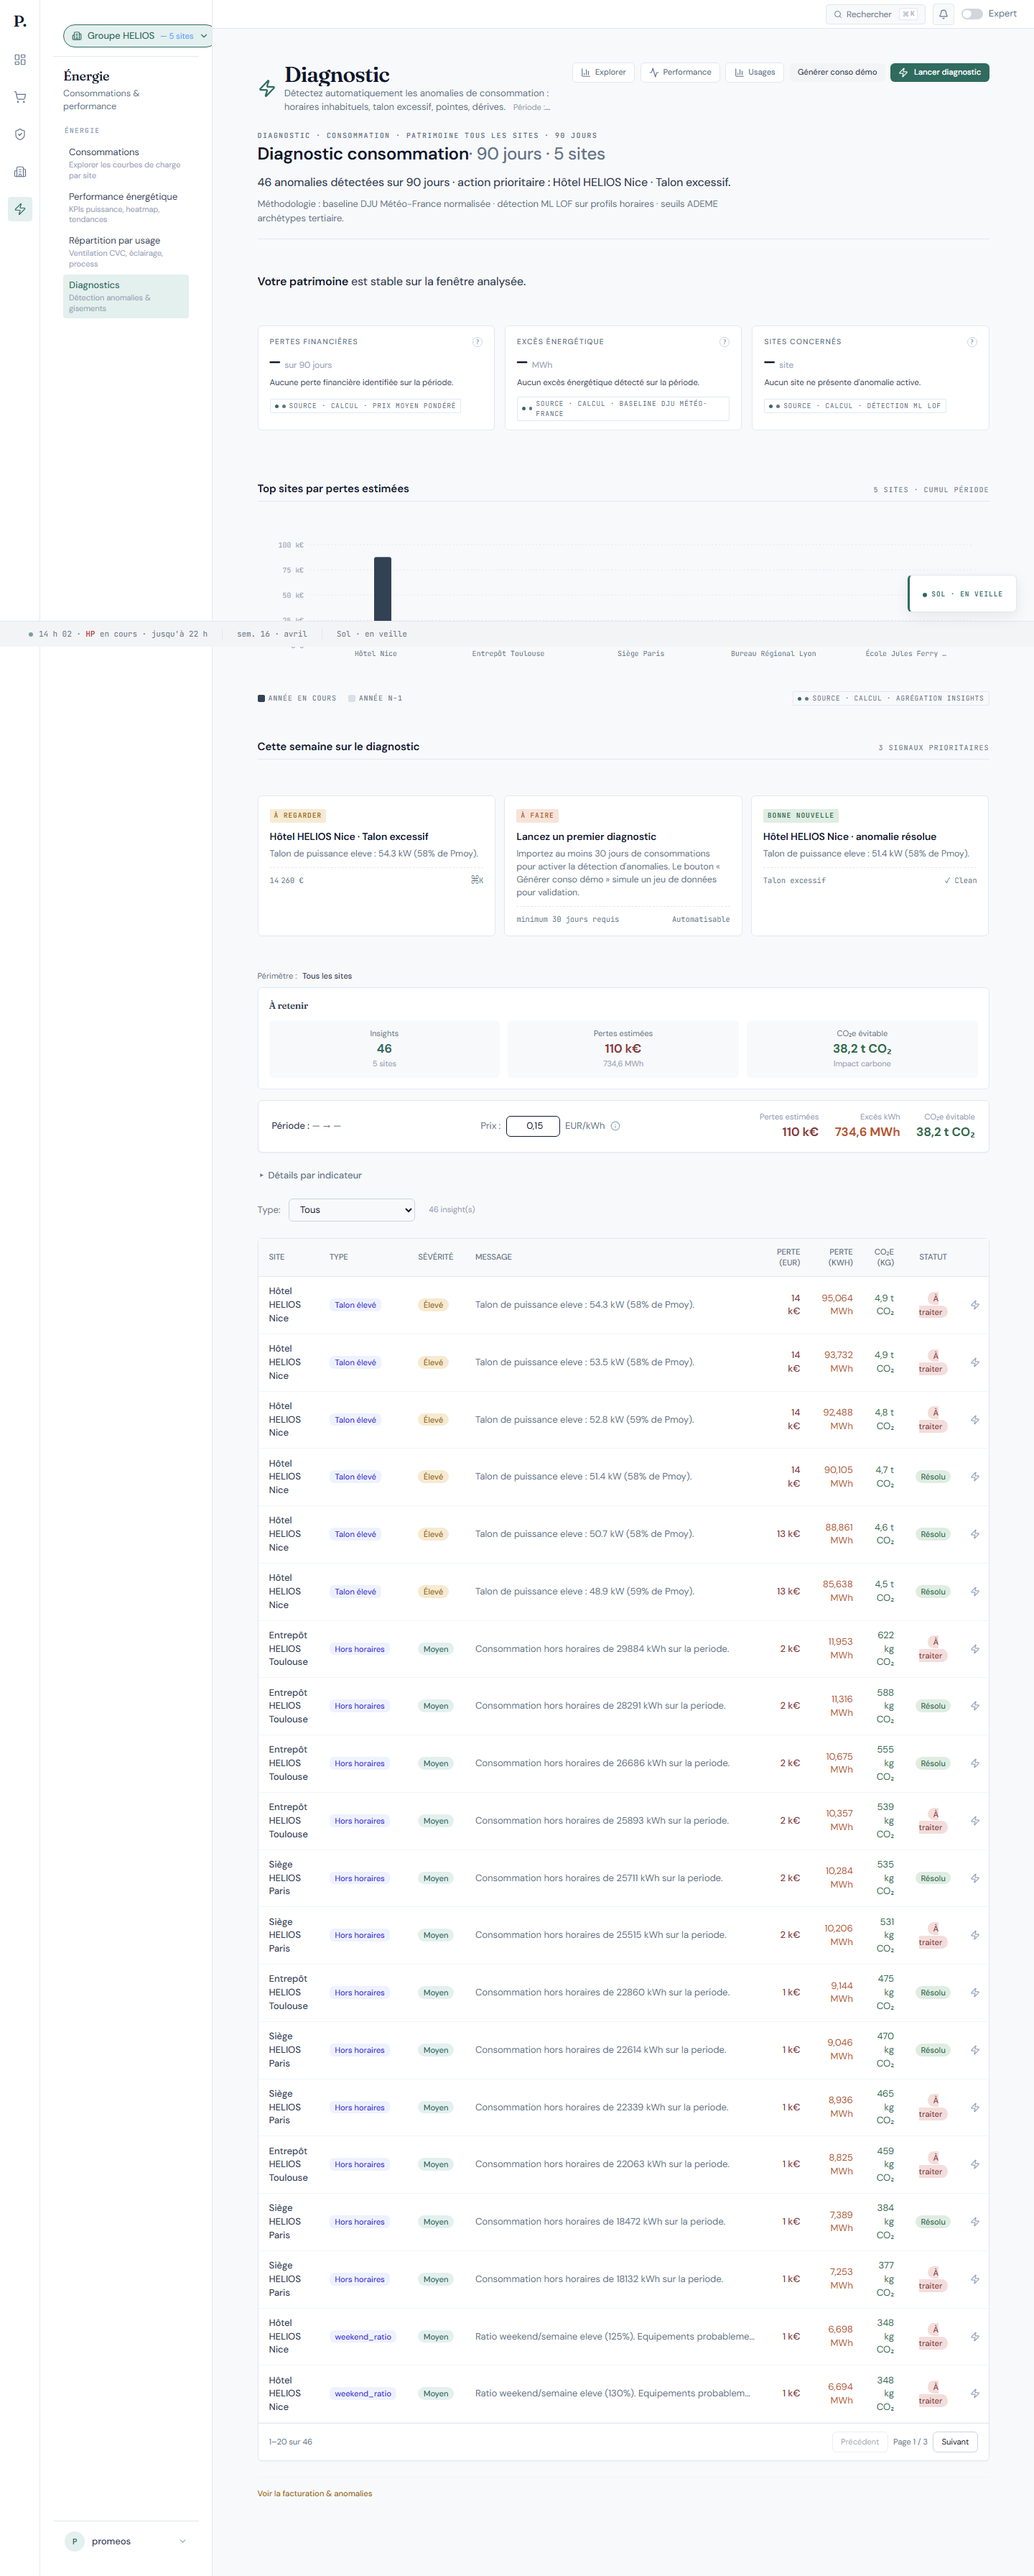
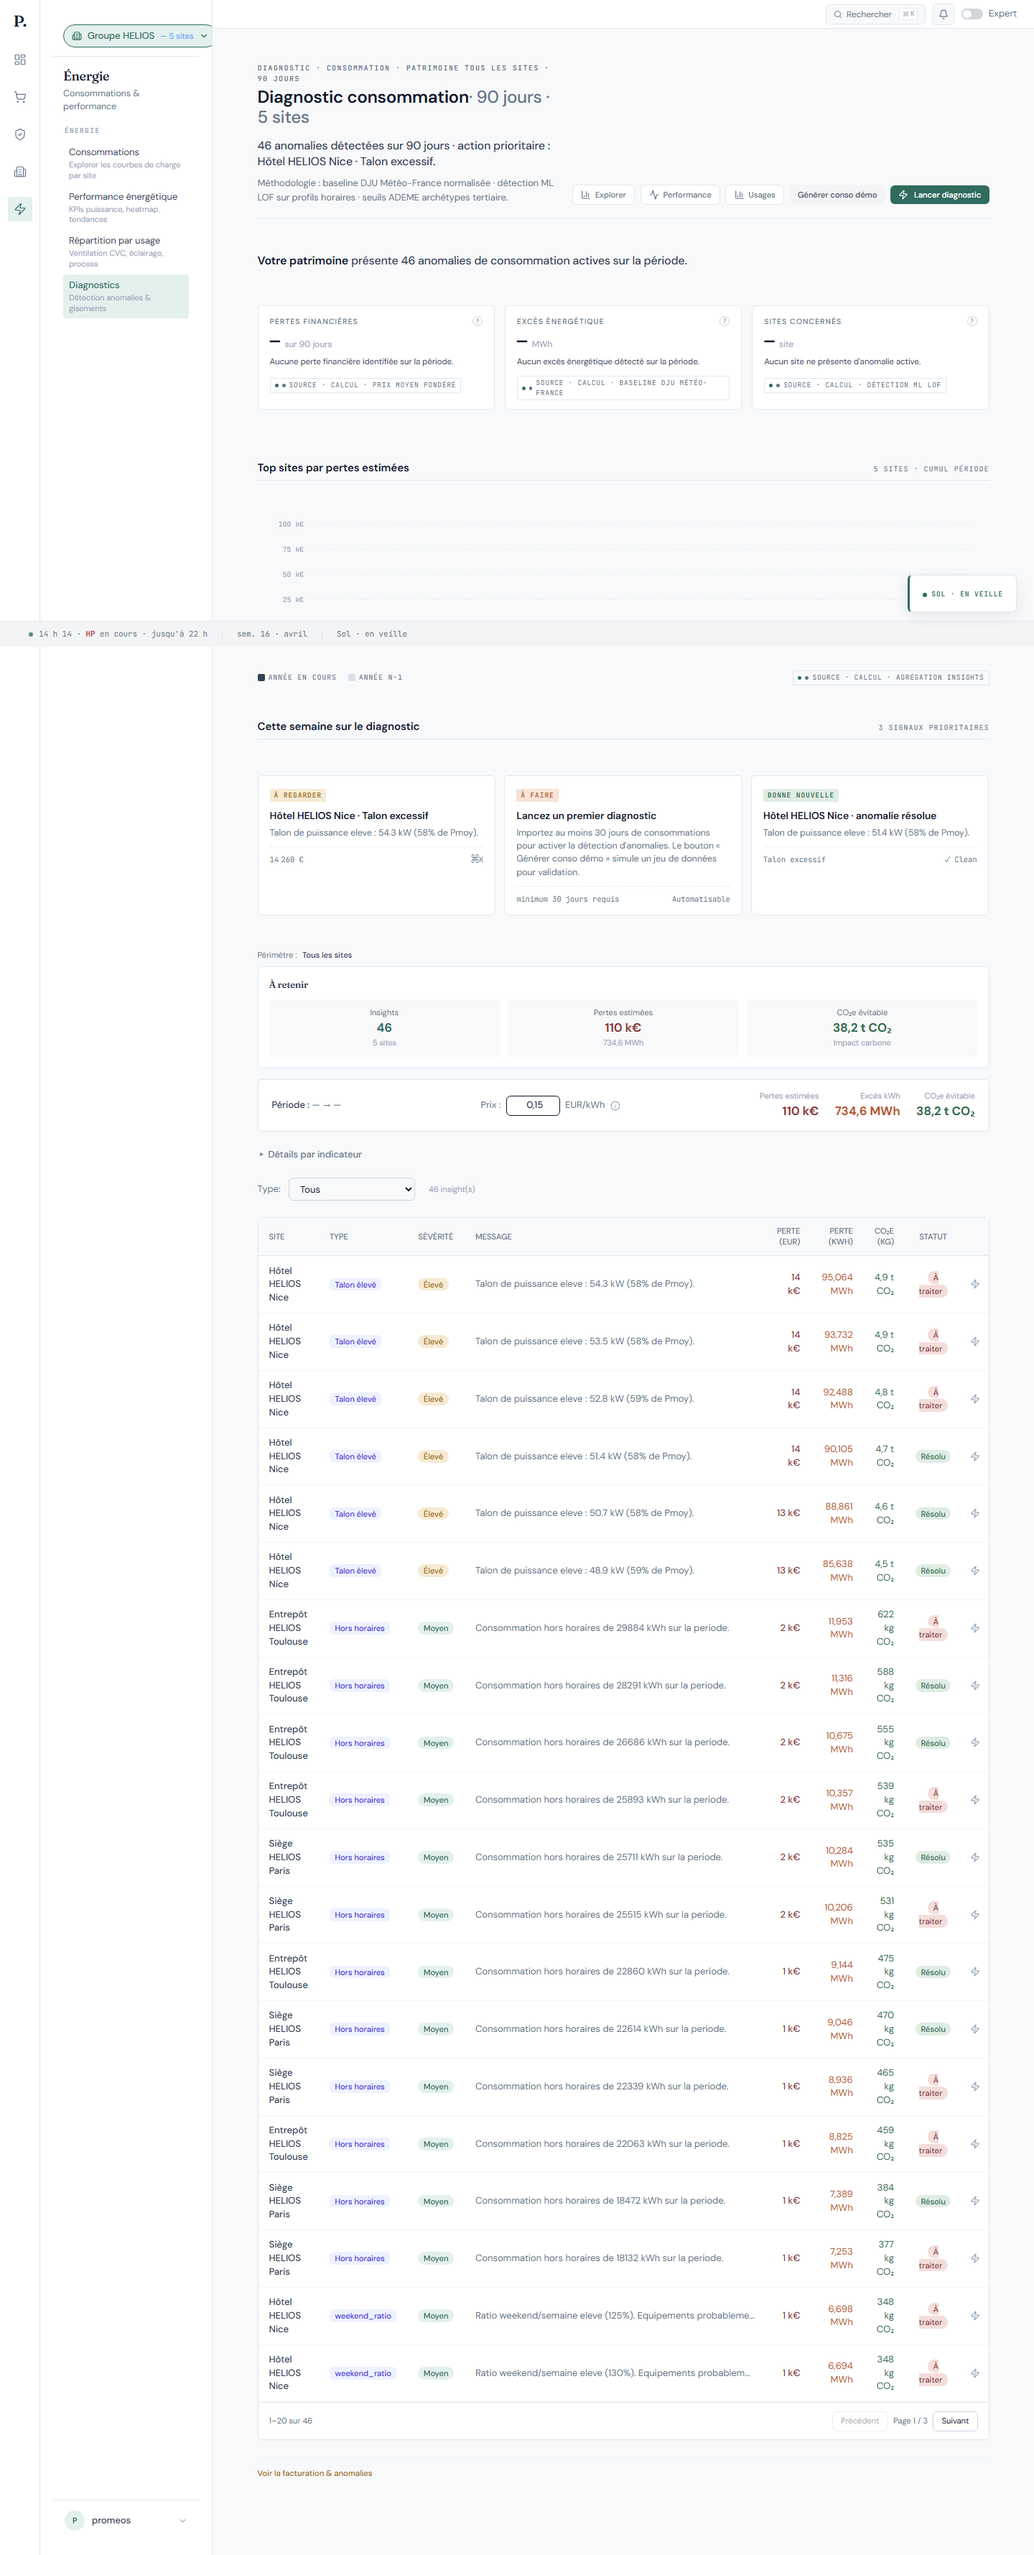
chore(refonte-lot3-p6.1): polish DiagnosticConsoSol header + captureABPair options
Fix visual redundancy révélée Phase 5 bilan — 2 headers simultanés
(PageShell legacy + Sol). Refacto via PageShell.hideHeader=true :

Dans ConsumptionDiagPage.jsx :
- PageShell passe en mode hideHeader (Sol prend la main sur le header)
- Les 5 actions legacy (Explorer / Performance / Usages / Seed démo /
  Lancer diag) déplacées dans un `headerActions` JSX
- Injection DiagnosticConsoSol reçoit maintenant `actions={headerActions}`
  qui sont rendues dans SolPageHeader.rightSlot

Résultat : 1 seul titre Sol Fraunces ("Diagnostic consommation · 90
jours · 5 sites") + boutons propres en haut à droite. Legacy body
(scope badge, liste insights, EvidenceDrawer 4 tabs inline) intact.

Dans tools/playwright/sol_refonte_helper.mjs :
- captureABPair() gagne 2 options :
    waitUntil : 'networkidle' | 'domcontentloaded' | 'load'
                (défaut 'networkidle')
    settleMs  : délai après waitUntil (défaut 3500ms)
- Documenté inline avec exemple AI-heavy (regops) {waitUntil:
  'domcontentloaded', settleMs: 18000}
- snapPair() reçoit gotoOpts et les propage à loginAndGoto()
- Login page reste sur waitUntil=networkidle (forme login DOM doit
  être ready pour le fill)

Les 3 scripts ad-hoc Phase 3-5 (_regops_capture, _efa_capture,
_diag_capture) peuvent être supprimés — options natives couvrent leur
cas d'usage. (Tous déjà supprimés à la fin de leur phase respective.)

Screenshot diagnostic_refonte_after re-capturé avec nouveau helper
[…]

diff --git a/frontend/src/pages/ConsumptionDiagPage.jsx b/frontend/src/pages/ConsumptionDiagPage.jsx
@@ -916,52 +916,44 @@ export default function ConsumptionDiagPage() {
     ? filteredInsights.filter((i) => i.type === filterType)
     : filteredInsights;
 
+  // Lot 3 Phase 6.1 — 5 actions legacy (Explorer / Performance / Usages /
+  // Seed démo / Lancer diag) déplacées dans le rightSlot du SolPageHeader.
+  // PageShell.hideHeader=true kill le header legacy (Sol prend la main).
+  const headerActions = (
+    <div className="flex items-center gap-2 flex-wrap">
+      <Link
+        to={toConsoExplorer()}
+        className="flex items-center gap-1.5 px-3 py-1.5 text-xs font-medium text-gray-600 bg-white border border-gray-200 rounded-lg hover:bg-gray-50 transition"
+      >
+        <BarChart3 size={14} />
+        Explorer
+      </Link>
+      <Link
+        to={toMonitoring()}
+        className="flex items-center gap-1.5 px-3 py-1.5 text-xs font-medium text-gray-600 bg-white border border-gray-200 rounded-lg hover:bg-gray-50 transition"
+      >
+        <Activity size={14} />
+        Performance
+      </Link>
+      <Link
+        to={toUsages()}
+        className="flex items-center gap-1.5 px-3 py-1.5 text-xs font-medium text-gray-600 bg-white border border-gray-200 rounded-lg hover:bg-gray-50 transition"
+      >
+        <BarChart3 size={14} />
+        Usages
+      </Link>
+      <Button variant="secondary" size="sm" onClick={handleSeedDemo} disabled={seeding}>
+        {seeding ? 'Génération...' : 'Générer conso démo'}
+      </Button>
+      <Button size="sm" onClick={handleDiagnose} disabled={diagnosing}>
+        <Zap size={14} />
+        {diagnosing ? 'Analyse...' : 'Lancer diagnostic'}
+      </Button>
+    </div>
+  );
+
   return (
-    <PageShell
-      icon={Zap}
-      title="Diagnostic"
-      subtitle={
-        <>
-          Détectez automatiquement les anomalies de consommation : horaires inhabituels, talon
-          excessif, pointes, dérives.{' '}
-          <span className="text-xs text-gray-400 ml-2">
-            Période : {period.start} — {period.end} ({period.days}j)
-          </span>
-        </>
-      }
-      actions={
-        <>
-          <Link
-            to={toConsoExplorer()}
-            className="flex items-center gap-1.5 px-3 py-1.5 text-xs font-medium text-gray-600 bg-white border border-gray-200 rounded-lg hover:bg-gray-50 transition"
-          >
-            <BarChart3 size={14} />
-            Explorer
-          </Link>
-          <Link
-            to={toMonitoring()}
-            className="flex items-center gap-1.5 px-3 py-1.5 text-xs font-medium text-gray-600 bg-white border border-gray-200 rounded-lg hover:bg-gray-50 transition"
-          >
-            <Activity size={14} />
-            Performance
-          </Link>
-          <Link
-            to={toUsages()}
-            className="flex items-center gap-1.5 px-3 py-1.5 text-xs font-medium text-gray-600 bg-white border border-gray-200 rounded-lg hover:bg-gray-50 transition"
-          >
-            <BarChart3 size={14} />
-            Usages
-          </Link>
-          <Button variant="secondary" size="sm" onClick={handleSeedDemo} disabled={seeding}>
-            {seeding ? 'Génération...' : 'Générer conso démo'}
-          </Button>
-          <Button size="sm" onClick={handleDiagnose} disabled={diagnosing}>
-            <Zap size={14} />
-            {diagnosing ? 'Analyse...' : 'Lancer diagnostic'}
-          </Button>
-        </>
-      }
-    >
+    <PageShell icon={Zap} hideHeader>
       {/* Lot 3 Phase 5 — Hero Pattern A Sol injecté en haut. Le reste de
           la page (liste insights + EvidenceDrawer 4 tabs inline) reste
           intégralement préservé en legacy. */}
@@ -975,6 +967,7 @@ export default function ConsumptionDiagPage() {
             periodDays={period?.days || 90}
             customPrice={customPrice}
             onOpenInsight={(insight) => setDrawerInsight(insight)}
+            actions={headerActions}
           />
         </div>
       )}
